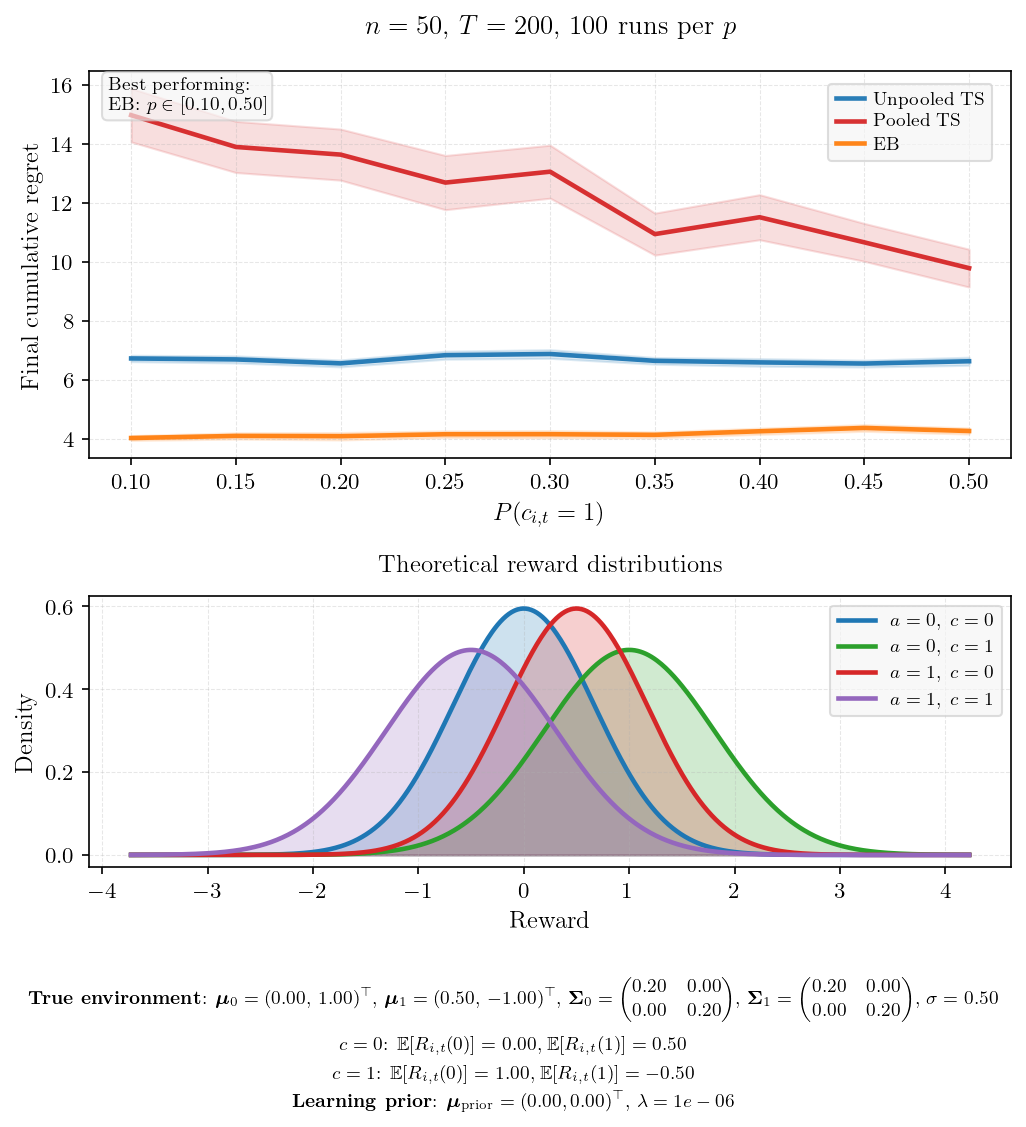
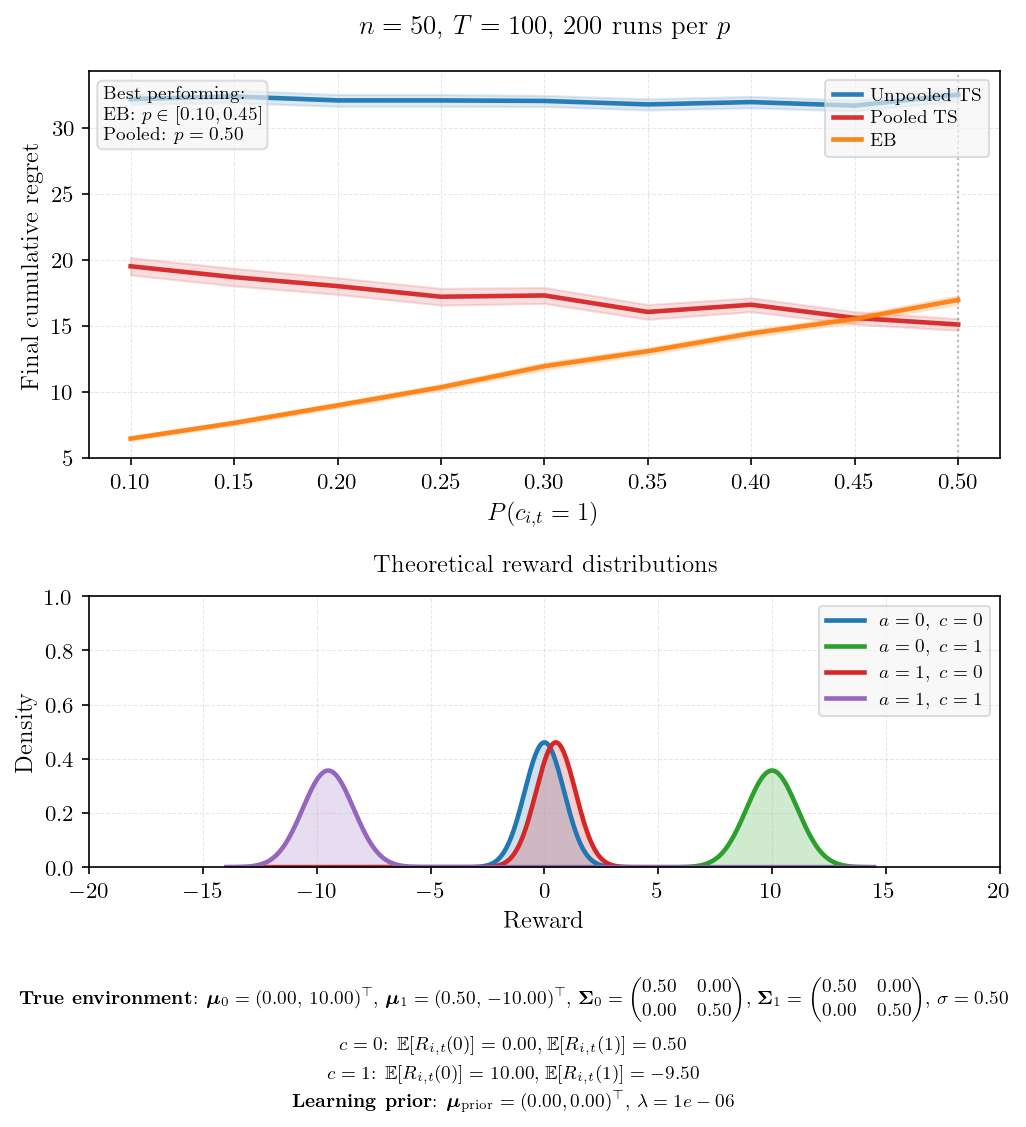
updated plotting script

diff --git a/2026/contextual-bandit/time-variant/041726/plot_p_sweep.py b/2026/contextual-bandit/time-variant/041726/plot_p_sweep.py
@@ -69,7 +69,7 @@ def main():
     ax.set_facecolor("#ffffff")
     ax.set_xlabel(r'$P(c_{i,t}=1)$', fontsize=12)
     ax.set_ylabel('Final cumulative regret', fontsize=12)
-    ax.set_title(r'$n=50$, $T=200$, 100 runs per $p$', fontsize=13, pad=18)
+    ax.set_title(r'$n=50$, $T=100$, 200 runs per $p$', fontsize=13, pad=18)
     ax.grid(True, alpha=0.3, linestyle='--', linewidth=0.5)
 
     winners = df['winner'].values
@@ -103,7 +103,7 @@ def main():
                 range_text += f"{winner}: $p\\in[{s:.2f},{e:.2f}]$\n"
 
         ax.text(
-            0.02, 0.985, range_text.rstrip('\n'),
+            0.015, 0.96, range_text.rstrip('\n'),
             transform=ax.transAxes,
             fontsize=9,
             va='top',
@@ -118,7 +118,7 @@ def main():
 
     ax.legend(
         loc='upper right',
-        bbox_to_anchor=(0.99, 0.99),
+        bbox_to_anchor=(0.999, 1),
         frameon=True,
         framealpha=0.65,
         facecolor='#f5f5f5',
@@ -130,15 +130,19 @@ def main():
         labelspacing=0.3
     )
 
+    # MAKE AXES CONSISTENT
+    ax2.set_xlim(-20, 20)      # adjust to cover your reward range
+    ax2.set_ylim(0, 1)      # adjust to cover your density range
+
     # ---------- bottom panel: theoretical reward distributions ----------
     # ---------- single source of truth for environment parameters ----------
     mu_a = {
-        0: np.array([0.0, 1.0]),
-        1: np.array([0.5, -1.0]),
+        0: np.array([0.0, 10]),
+        1: np.array([0.5, -10]),
     }
     Sigma_a = {
-        0: [0.2, 0.0, 0.0, 0.2],
-        1: [0.2, 0.0, 0.0, 0.2],
+        0: [0.5, 0.0, 0.0, 0.5],
+        1: [0.5, 0.0, 0.0, 0.5],
     }
     sigma_r = 0.5
     mu_prior = np.array([0.0, 0.0])

diff --git a/2026/contextual-bandit/time-variant/041726/p_sweep_scenario1.cpp b/2026/contextual-bandit/time-variant/041726/p_sweep_scenario1.cpp
@@ -305,16 +305,16 @@ double empirical_bayes(int T, int n, const Env& env, double sigma_r, double lam,
 
 // ---------------- Main ----------------
 int main() {
-    int n = 50, T = 200, runs = 100;
+    int n = 50, T = 100, runs = 200;
     double sigma_r = 0.5, lam = 1e-6;
 
     std::vector<Vec> mu_a = {
-        {0.0,  1},
-        {0.5, -1}
+        {0.0,  10},
+        {0.5, -10}
     };
     std::vector<M2> Sigma_a = {
-        {0.2, 0.0, 0.0, 0.2},
-        {0.2, 0.0, 0.0, 0.2}
+        {0.5, 0.0, 0.0, 0.5},
+        {0.5, 0.0, 0.0, 0.5}
     };
     Vec mu0_prior = {0.0, 0.0};
 
@@ -378,7 +378,7 @@ int main() {
                   << "  EB=" << mu_e
                   << "  winner=" << winner << "\n";
     }
-
+    
     out.close();
     std::cout << "\nDone!\n";
     return 0;